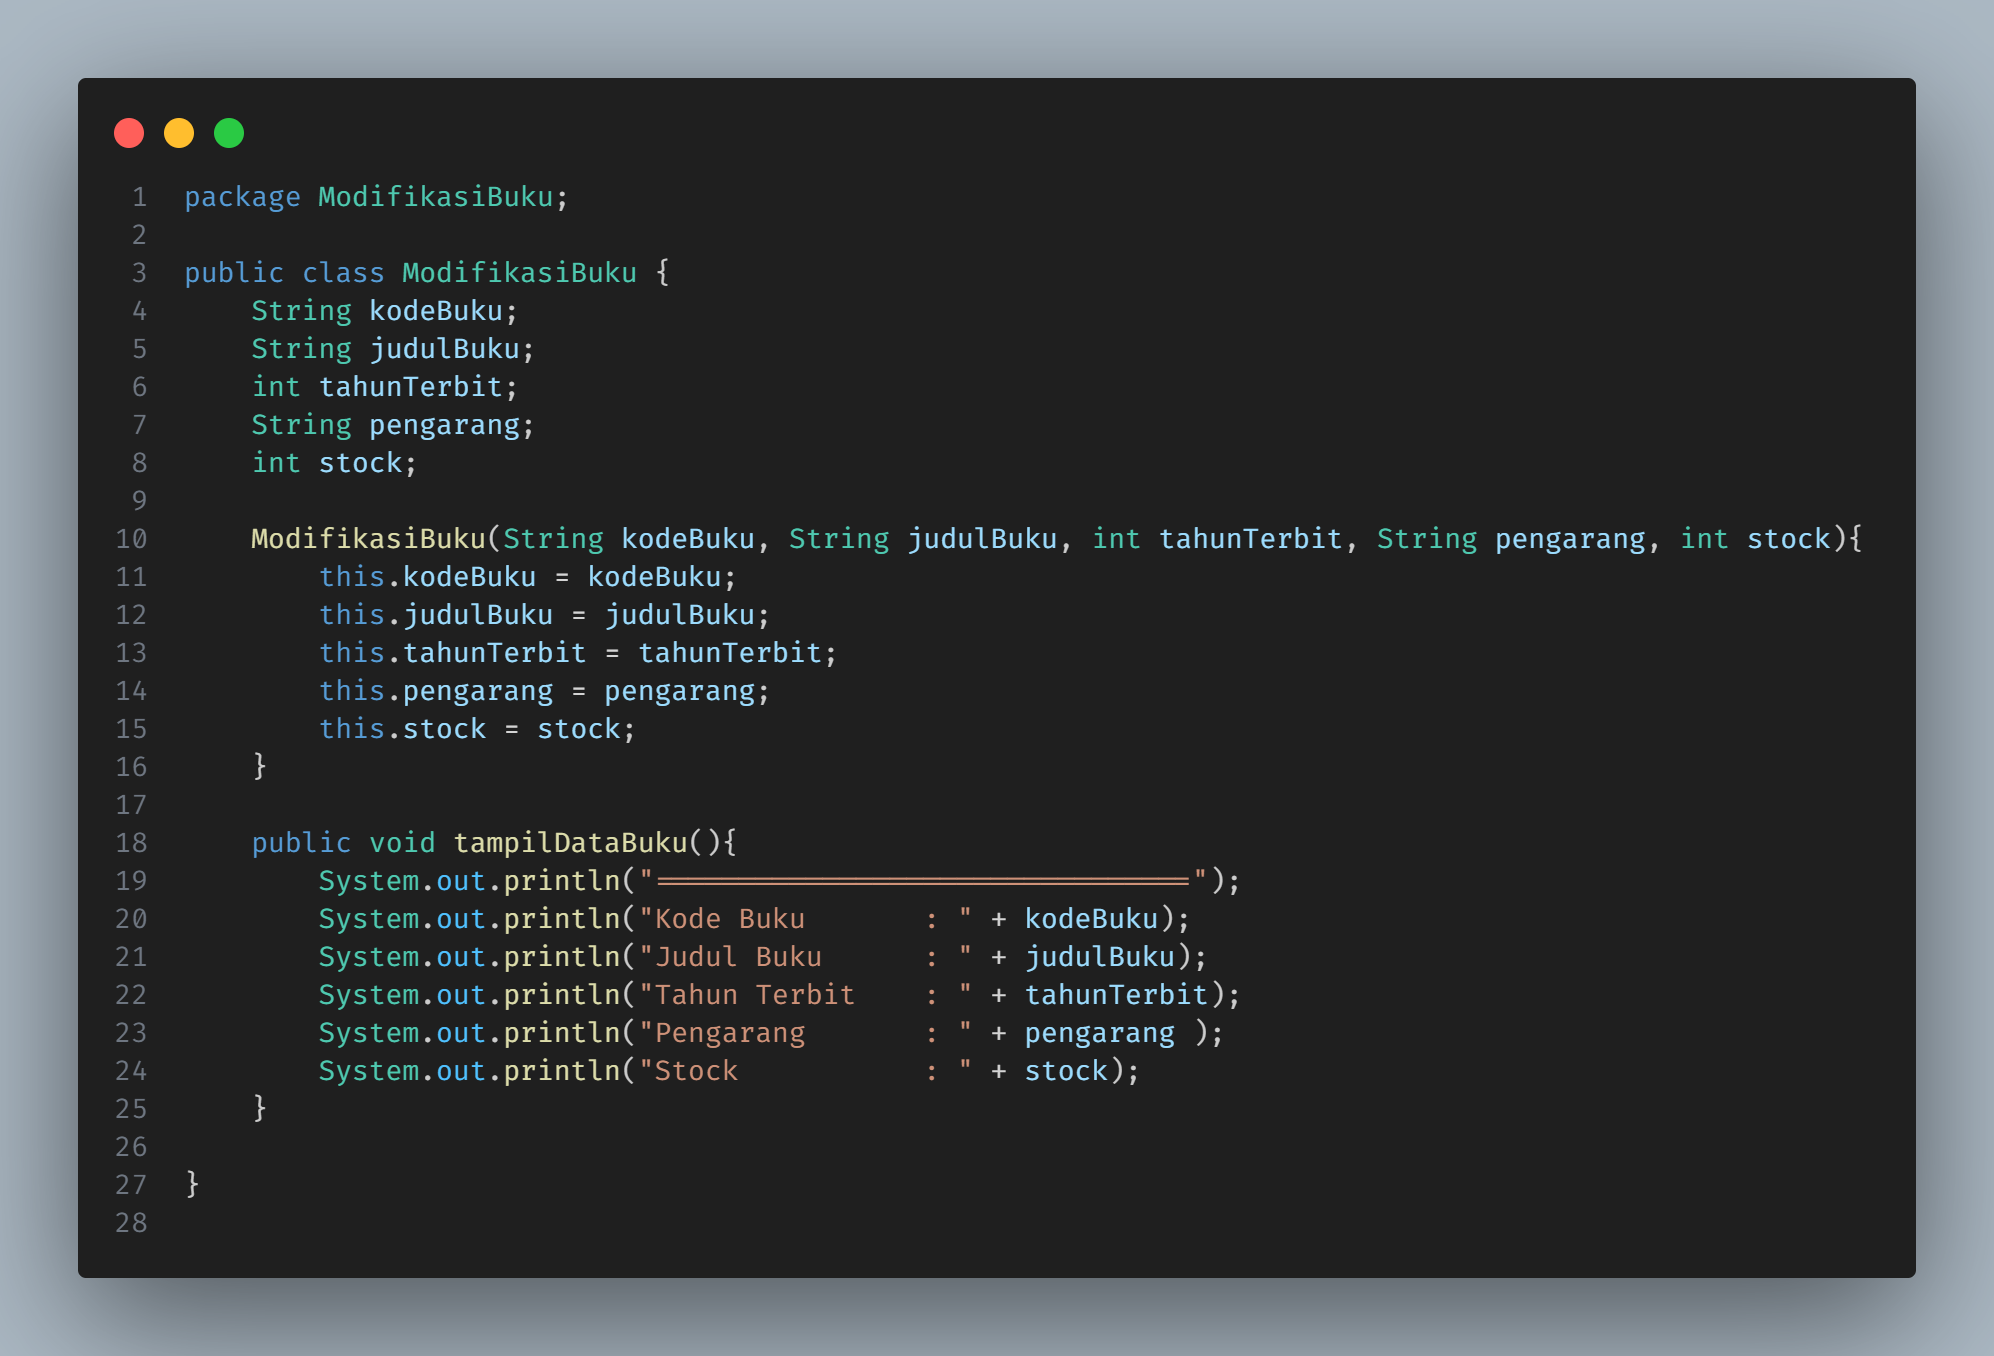
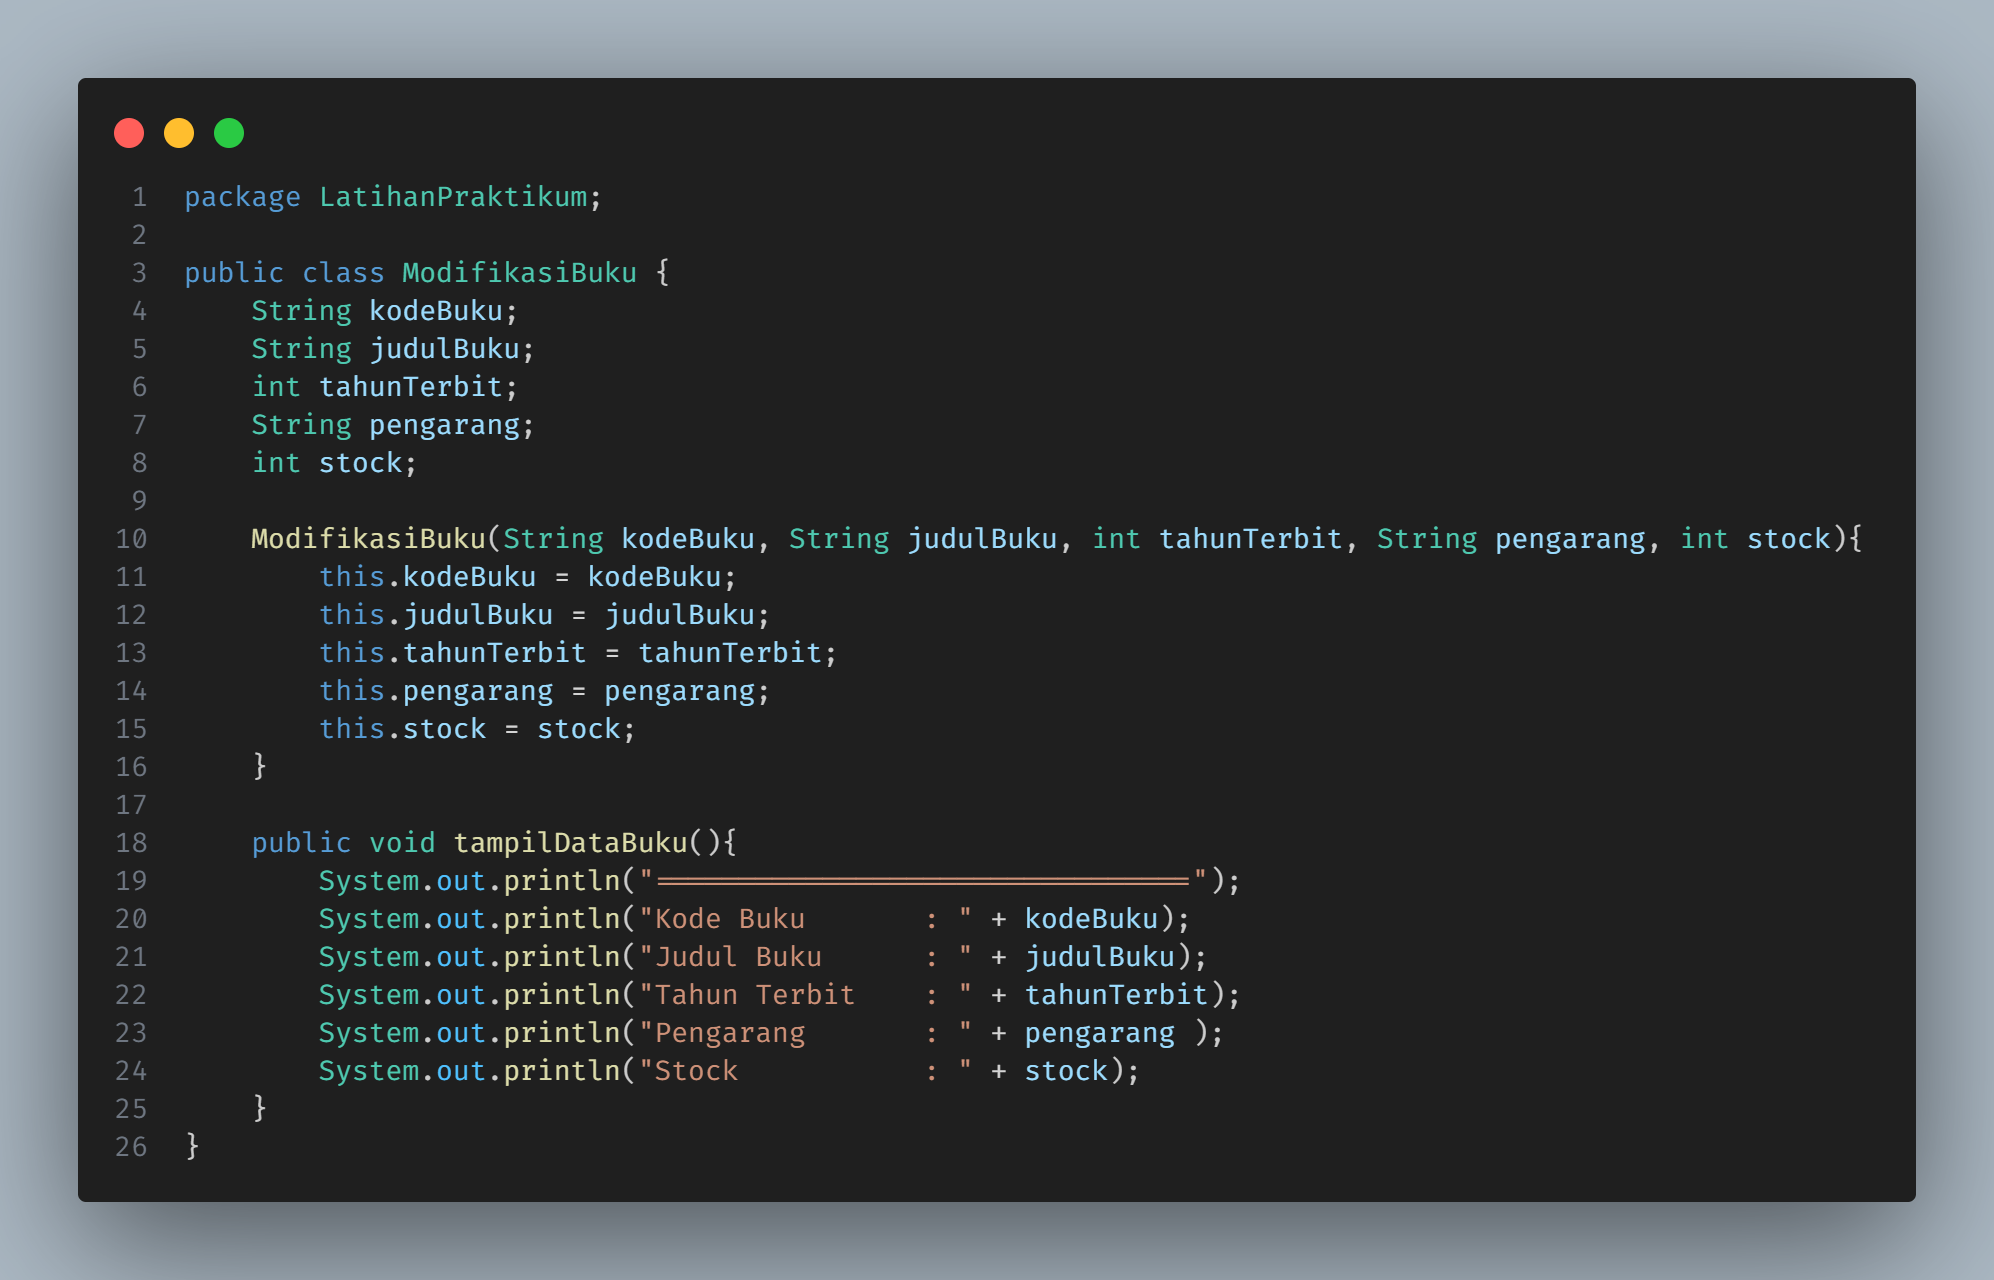
add latihan praktikum

diff --git a/PERTEMUAN 7/pertemuan7/src/LatihanPraktikum/ModifikasiPencarianBuku.java b/PERTEMUAN 7/pertemuan7/src/LatihanPraktikum/ModifikasiPencarianBuku.java
@@ -1,6 +1,6 @@
-package ModifikasiBuku;
+package LatihanPraktikum;
 
-public class ModifikasiPencarianBuku03 {
+public class ModifikasiPencarianBuku {
     ModifikasiBuku listBk[] = new ModifikasiBuku[5];
     int idx;
 
@@ -15,17 +15,18 @@ public class ModifikasiPencarianBuku03 {
 
     void tampil() {
         for (ModifikasiBuku m : listBk){
-            m.tampilDataBuku();
+            if (m != null) { // Periksa jika elemen tidak null
+                m.tampilDataBuku();
+            }
         }
     }
 
     public int FindSeqSearch(String cari){
         int posisi = -1;
         for(int j = 0; j<listBk.length; j++){
-            if(listBk[j].kodeBuku.equals(cari)){
+            if(listBk[j] != null && listBk[j].kodeBuku.equals(cari)){
                 posisi = j;
                 break;
-                
             }
         }
         return posisi;
@@ -41,13 +42,11 @@ public class ModifikasiPencarianBuku03 {
 
     public void TampilData(String x, int pos){
         if (pos != -1){
-            for (int i = pos; i < listBk.length; i++) {
-                System.out.println("Kode Buku       : " + listBk[pos].kodeBuku);
-                System.out.println("Judul           : " + listBk[pos].judulBuku);
-                System.out.println("Tahun Terbit    : " + listBk[pos].tahunTerbit);
-                System.out.println("Pengarang       : " + listBk[pos].pengarang);
-                System.out.println("Stock           : " + listBk[pos].stock);
-            }
+            System.out.println("Kode Buku       : " + listBk[pos].kodeBuku);
+            System.out.println("Judul           : " + listBk[pos].judulBuku);
+            System.out.println("Tahun Terbit    : " + listBk[pos].tahunTerbit);
+            System.out.println("Pengarang       : " + listBk[pos].pengarang);
+            System.out.println("Stock           : " + listBk[pos].stock);
         } else {
             System.out.println("Data " + x + " tidak ditemukan");
         }
@@ -56,7 +55,7 @@ public class ModifikasiPencarianBuku03 {
     public String FindBinarySearch(String cari, int left, int right) {
         boolean isSorted = false;
         for (int i = 0; i < idx - 1; i++) {
-            if (listBk[i].kodeBuku.compareTo(listBk[i + 1].kodeBuku) > 0) {
+            if (listBk[i] != null && listBk[i + 1] != null && listBk[i].kodeBuku.compareTo(listBk[i + 1].kodeBuku) > 0) {
                 isSorted = false;
                 break;
             } else {
@@ -68,7 +67,7 @@ public class ModifikasiPencarianBuku03 {
             // Bubble sort untuk mengurutkan array
             for (int i = 0; i < idx - 1; i++) {
                 for (int j = 1; j < idx - i; j++) {
-                    if (listBk[j].kodeBuku.compareTo(listBk[j - 1].kodeBuku) < 0) {
+                    if (listBk[j] != null && listBk[j - 1] != null && listBk[j].kodeBuku.compareTo(listBk[j - 1].kodeBuku) < 0) {
                         ModifikasiBuku tmp = listBk[j];
                         listBk[j] = listBk[j - 1];
                         listBk[j - 1] = tmp;
@@ -80,24 +79,24 @@ public class ModifikasiPencarianBuku03 {
         // Pencarian biner
         while (left <= right) {
             int mid = left + (right - left) / 2;
-            int compareResult = cari.compareTo(listBk[mid].kodeBuku);
-            
-            if (compareResult == 0) {
-                return listBk[mid].kodeBuku;
-            } else if (compareResult < 0) {
-                right = mid - 1;
-            } else {
-                left = mid + 1;
+            if (listBk[mid] != null) {
+                int compareResult = cari.compareTo(listBk[mid].kodeBuku);
+                if (compareResult == 0) {
+                    return listBk[mid].kodeBuku;
+                } else if (compareResult < 0) {
+                    right = mid - 1;
+                } else {
+                    left = mid + 1;
+                }
             }
         }
         return null; // Jika elemen tidak ditemukan
     }
-    
+
     public ModifikasiBuku FindBuku(String cari){
         for(int j = 0; j<listBk.length; j++){
-            if(listBk[j].kodeBuku.equals(cari)){
+            if(listBk[j] != null && listBk[j].kodeBuku.equals(cari)){
                 return listBk[j];
-                
             }
         }
         return null;
@@ -108,7 +107,7 @@ public class ModifikasiPencarianBuku03 {
         int count = 0;
 
         for (int j = 0; j < listBk.length; j++) {
-            if (listBk[j].judulBuku.equals(cari)) {
+            if (listBk[j] != null && listBk[j].judulBuku.equals(cari)) {
                 foundBooks[count] = listBk[j];
                 count++;
             }
@@ -129,40 +128,41 @@ public class ModifikasiPencarianBuku03 {
 
         for(int i=0; i<listBk.length-1; i++){
             for(int j=1; j <listBk.length -i; j++){
-                if(listBk[j].judulBuku.compareTo(listBk[j - 1].judulBuku) < 0){
+                if(listBk[j] != null && listBk[j - 1] != null && listBk[j].judulBuku.compareTo(listBk[j - 1].judulBuku) < 0){
                     ModifikasiBuku tmp = listBk[j];
                     listBk[j] = listBk[j-1];
                     listBk[j-1] = tmp;
                 }
             }
         }
-    
+
         while (left <= right) {
             int mid = left + (right - left) / 2;
-            if (listBk[mid].judulBuku.compareTo(cari) == 0) {
-                firstIndex = mid;
-                lastIndex = mid;
-                // Temukan indeks pertama
-                while (firstIndex > left && listBk[firstIndex - 1].judulBuku.compareTo(cari) == 0) {
-                    firstIndex--;
-                    System.out.println("===================================");
+            if (listBk[mid] != null) {
+                if (listBk[mid].judulBuku.compareTo(cari) == 0) {
+                    firstIndex = mid;
+                    lastIndex = mid;
+                    // Temukan indeks pertama
+                    while (firstIndex > left && listBk[firstIndex - 1] != null && listBk[firstIndex - 1].judulBuku.compareTo(cari) == 0) {
+                        firstIndex--;
+                    }
+                    // Temukan indeks terakhir
+                    while (lastIndex < right && listBk[lastIndex + 1] != null && listBk[lastIndex + 1].judulBuku.compareTo(cari) == 0) {
+                        lastIndex++;
+                    }
+                    break;
+                } else if (listBk[mid].judulBuku.compareTo(cari) < 0) {
+                    left = mid + 1;
+                } else {
+                    right = mid - 1;
                 }
-                // Temukan indeks terakhir
-                while (lastIndex < right && listBk[lastIndex + 1].judulBuku.compareTo(cari) == 0) {
-                    lastIndex++;
-                }
-                break;
-            } else if (listBk[mid].judulBuku.compareTo(cari) < 0) {
-                left = mid + 1;
-            } else {
-                right = mid - 1;
             }
         }
-    
+
         if (firstIndex != -1 && lastIndex != -1) {
             boolean multipleBooksFound = firstIndex != lastIndex;
             for (int i = firstIndex; i <= lastIndex; i++) {
-                if (listBk[i].judulBuku.equals(cari)) {
+                if (listBk[i] != null && listBk[i].judulBuku.equals(cari)) {
                     System.out.println("Kode Buku       : " + listBk[i].kodeBuku);
                     System.out.println("Judul           : " + listBk[i].judulBuku);
                     System.out.println("Tahun Terbit    : " + listBk[i].tahunTerbit);
@@ -175,15 +175,9 @@ public class ModifikasiPencarianBuku03 {
             if (multipleBooksFound) {
                 System.out.println("Ditemukan lebih dari 1 data buku dengan judul " + cari);
             }
-            
+
         } else {
             System.out.println("Data tidak ditemukan");
         }
     }
-    
-
-    
-
-
 }
-

diff --git a/PERTEMUAN 7/pertemuan7/src/LatihanPraktikum/ModifikasiBukuMain.java b/PERTEMUAN 7/pertemuan7/src/LatihanPraktikum/ModifikasiBukuMain.java
@@ -1,4 +1,4 @@
-package ModifikasiBuku;
+package LatihanPraktikum;
 import java.util.Scanner;
 
 public class ModifikasiBukuMain {
@@ -6,7 +6,7 @@ public class ModifikasiBukuMain {
     Scanner s = new Scanner(System.in);
     Scanner s1 = new Scanner(System.in);
 
-    ModifikasiPencarianBuku03 data = new ModifikasiPencarianBuku03();
+    ModifikasiPencarianBuku data = new ModifikasiPencarianBuku();
     int jumBuku = 5;
 
     System.out.println("----------------------------");
@@ -41,24 +41,37 @@ public class ModifikasiBukuMain {
         switch (choice) {
             case 1 :
                 System.out.println("===============================");
-                System.out.println("Pencarian Data  :");
-                System.out.println("Masukkan Kode Buku yang dicari: ");
-                System.out.print("Kode Buku   : ");
+                System.out.println("Pencarian Data:");
+                System.out.print("Masukkan Kode Buku yang dicari: ");
                 String cari = s1.nextLine();
-                data.FindSeqSearch(cari);
-                
+                int posisi = data.FindSeqSearch(cari);
+            
                 System.out.println("===============================");
                 System.out.println("Menggunakan Sequential Search Method FindBuku");
-                ModifikasiBuku dataBuku = data.FindBuku(cari);
-                dataBuku.tampilDataBuku();
+            
+                if (posisi != -1) {
+                    ModifikasiBuku dataBuku = data.FindBuku(cari);
+                    if (dataBuku != null) {
+                        dataBuku.tampilDataBuku();
+                    } else {
+                        System.out.println("Data tidak ditemukan");
+                    }
+                } else {
+                    System.out.println("Data tidak ditemukan");
+                }
+            
                 System.out.println();
-                
                 System.out.println("===============================");
                 System.out.println("Menggunakan Binary Search");
-                int posisi = data.FindBinarySearch(cari, 0, jumBuku -1); // Menggunakan kembali variabel yang sudah didefinisikan sebelumnya
-                data.TampilData(cari, posisi);
+                String result = data.FindBinarySearch(cari, 0, jumBuku - 1);
+                if (result != null) {
+                    int binarySearchPos = data.FindSeqSearch(result); // Cari posisi menggunakan Sequential Search
+                    data.TampilData(result, binarySearchPos);
+                } else {
+                    System.out.println("Data tidak ditemukan");
+                }
+                break;
             
-
             case 2:
                 System.out.println();
                 System.out.println("===============================");
@@ -98,4 +111,3 @@ public class ModifikasiBukuMain {
     }   
     
 }
-

diff --git a/PERTEMUAN 7/pertemuan7/src/LatihanPraktikum/ModifikasiBuku.java b/PERTEMUAN 7/pertemuan7/src/LatihanPraktikum/ModifikasiBuku.java
@@ -1,4 +1,4 @@
-package ModifikasiBuku;
+package LatihanPraktikum;
 
 public class ModifikasiBuku {
     String kodeBuku;
@@ -23,5 +23,4 @@ public class ModifikasiBuku {
         System.out.println("Pengarang       : " + pengarang );
         System.out.println("Stock           : " + stock);
     }
-
 }

diff --git a/PERTEMUAN 7/Laporan_Pertemuan7.md b/PERTEMUAN 7/Laporan_Pertemuan7.md
@@ -104,4 +104,17 @@ dengan menggunakan algoritma Sorting (bebas pilih algoritma sorting apapun)! Seh
 ketika input data acak, maka algoritma searching akan tetap berjalan
 ### - Buat aturan untuk mendeteksi hasil pencarian judul buku yang lebih dari 1 hasil dalambentuk kalimat peringatan! Pastikan algoritma yang diterapkan sesuai dengan kasus yang diberikan!
 
+### KODE PROGRAM
+<img src="picture/code - ModifikasiBuku.png">
+<img src="picture/code - ModifikasiPencarianBuku.png">
+<img src="picture/code - ModifikasiBukuMain.png">
+
+### OUTPUT
+### SEARCH DENGAN KODE BUKU
+<img src="picture/output - SearchKode.png">
+
+### SEACH DENGAN JUDUL BUKU
+<img src="picture/output - search judul 1.png">
+<img src="picture/output - search judul 2.png">
+
 
